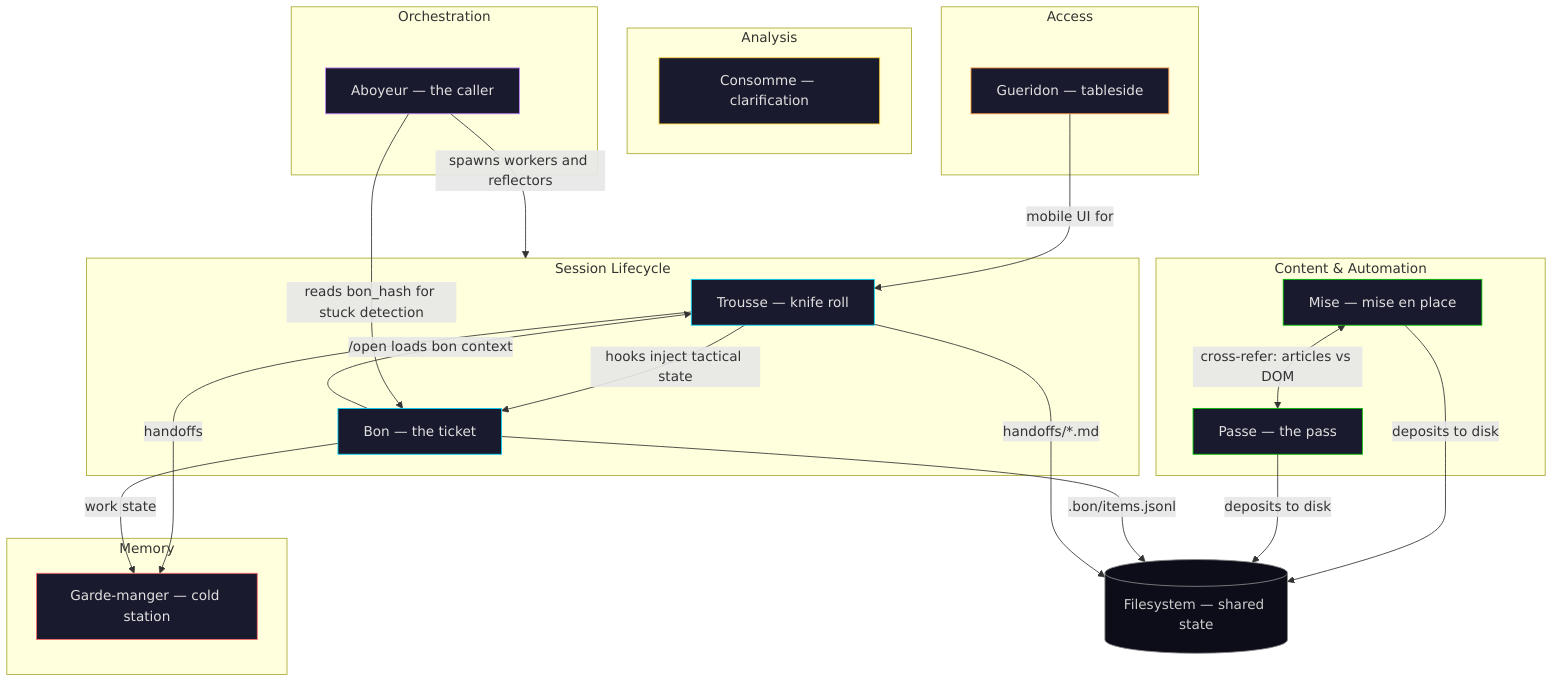
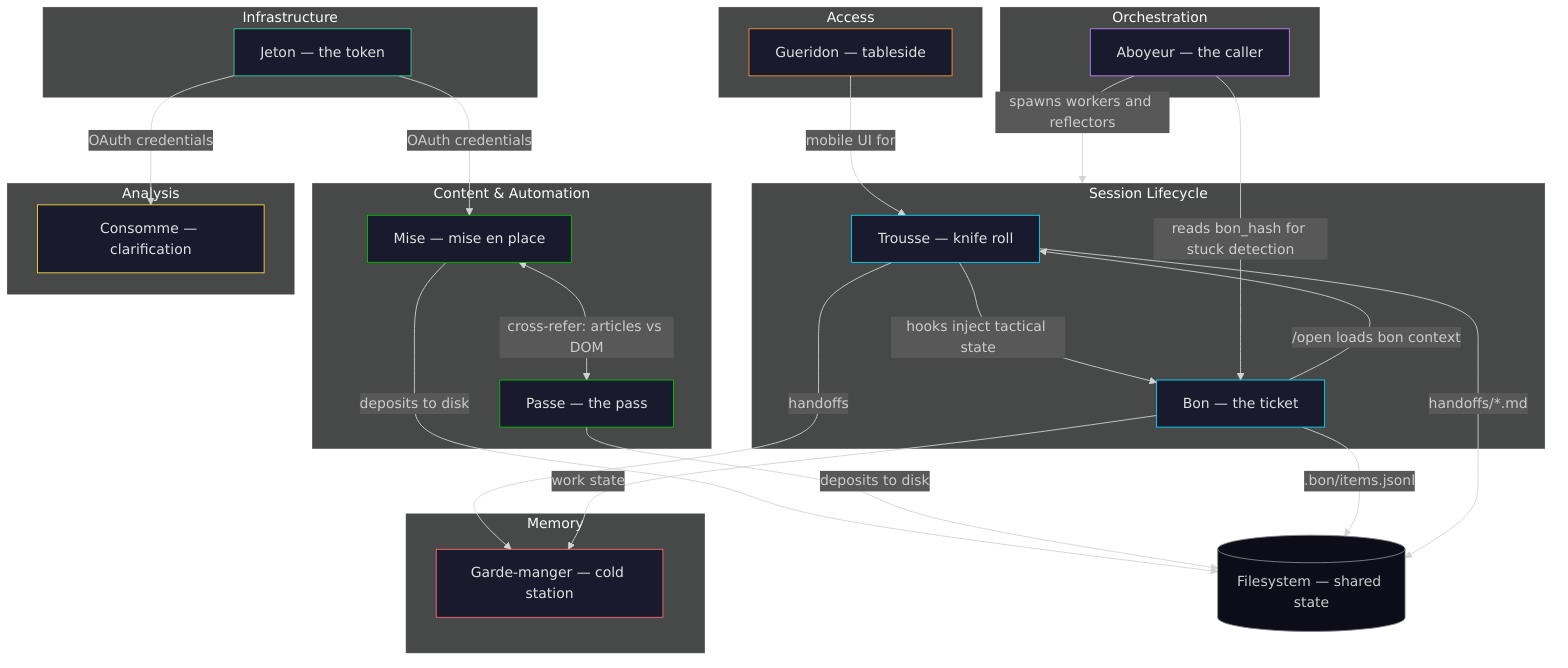
Add Jeton across all docs, create MAINTAINING.md checklist
Jeton added to brigade tables (index, for-agents, README already done),
prose summaries, getting-started guide, tool composition section,
prerequisites list, Mermaid diagram, and re-rendered PNG.

New docs/tools/jeton.md page covers auth modes, scope shortcuts,
explicit paths, Python API, and CLI reference.

MAINTAINING.md provides a 13-step checklist for future tool additions
plus a template for tool pages. References bds-pitivo (registry-driven
generation) as the longer-term solution.

diff --git a/docs/tools/jeton.md b/docs/tools/jeton.md
@@ -1,0 +1,98 @@
+---
+layout: default
+title: Jeton
+---
+
+# Jeton — The token
+
+Google OAuth token management for the Batterie de Savoir. Every Google-facing tool in the suite — mise for Workspace content, consommé for BigQuery — needs OAuth credentials. Jeton handles the full OAuth 2.0 flow so the tools themselves don't have to reinvent authentication. It acquires tokens, refreshes them when they expire, and manages scope negotiation across three auth modes.
+
+## When to use / When NOT to use
+
+**Use jeton when:**
+
+- You need Google API access from a Python tool in the suite
+- You're setting up mise or consommé for the first time and need credentials
+- A token has expired or scopes have changed and you need to re-authenticate
+- You want to check token status or available scopes
+
+**Do NOT use jeton when:**
+
+- You're accessing non-Google APIs — jeton is Google OAuth only
+- You need macOS Keychain secrets — use `security find-generic-password`
+- You're working with a tool that manages its own auth (e.g., `gh` for GitHub)
+
+## Key concepts
+
+### Three auth modes
+
+Jeton supports three ways to complete the OAuth flow, chosen based on the environment:
+
+| Mode | Flag | When to use |
+|------|------|-------------|
+| **Auto** | *(default)* | Local development — starts localhost:3000, opens browser, handles callback |
+| **Manual** | `--manual` | SSH, remote, headless — prints URL, you paste the redirect back |
+| **Non-interactive** | `--manual --code URL` | Scripting, CI, Claude Code — provide the auth code directly |
+
+### Scope shortcuts
+
+Instead of typing full Google OAuth URLs, jeton uses readable shortcuts: `drive.readonly`, `gmail.readonly`, `sheets`, `calendar`. The CLI and Python API both accept these shortcuts and resolve them to the full scope URIs.
+
+### Explicit paths over defaults
+
+Each project provides its own `credentials.json`, `token.json`, and scopes. There's no shared `~/.config/jeton/` directory. This keeps projects independent — one project's tokens can't leak into another's scope. The consuming tool (mise, consommé) passes paths explicitly when calling jeton's Python API.
+
+### Token refresh
+
+Tokens expire. Jeton handles refresh transparently — if a valid refresh token exists, `load_credentials()` returns fresh credentials without user interaction. The `jeton status` command shows whether a token is valid, expired-but-refreshable, or needs full re-auth.
+
+### Scope mismatch handling
+
+Google sometimes grants different scopes than requested (incremental auth). Jeton catches the `Scope has changed` error during token exchange and extracts credentials manually rather than failing. This is a known Google OAuth quirk that jeton absorbs so downstream tools don't have to.
+
+## How it relates to other tools
+
+Jeton is **infrastructure** — it sits beneath the Google-facing tools and provides them with credentials. It has no skill of its own (no behavioural document to load) because agents don't interact with it directly during normal work. It's plumbing.
+
+| Tool | Relationship to jeton |
+|------|----------------------|
+| **Mise** | Primary Python consumer — calls `authenticate()` and `load_credentials()` for Workspace access |
+| **Consommé** | Uses jeton credentials when connecting to BigQuery via Google APIs |
+| **Bon, Trousse, Passe, Garde-manger** | No dependency — these don't touch Google APIs |
+
+When you set up mise for the first time, jeton is the prerequisite. Run `jeton` to complete the OAuth flow, and mise picks up the resulting `token.json`.
+
+## CLI
+
+```
+jeton                    # Authenticate (auto mode)
+jeton --manual           # Authenticate (manual mode — prints URL)
+jeton status             # Show token validity and scopes
+jeton refresh            # Force token refresh
+jeton list-scopes        # Show available scope shortcuts
+```
+
+## Python API
+
+```python
+from jeton import authenticate, load_credentials, TokenStatus
+
+# Full OAuth flow (interactive)
+creds = authenticate(credentials_path, token_path, scopes)
+
+# Load existing token (refreshes if needed)
+creds = load_credentials(token_path, scopes)
+
+# Check token status without modifying it
+status = TokenStatus.check(token_path)
+```
+
+## Prerequisites
+
+- A Google Cloud project with OAuth 2.0 credentials (`credentials.json`)
+- The relevant Google APIs enabled in your GCP project
+- Python 3.11+ with uv
+
+## Repo
+
+Install, usage, and full reference: [github.com/spm1001/jeton](https://github.com/spm1001/jeton)

diff --git a/docs/getting-started.md b/docs/getting-started.md
@@ -33,9 +33,15 @@ This is the most common first pick, because statelessness is the first pain you 
 
 📦 [spm1001/garde-manger](https://github.com/spm1001/garde-manger)
 
+### "I need Google Workspace access (Mise, Consommé, or anything with Google APIs)"
+
+**[Jeton](tools/jeton)** handles Google OAuth for the suite. It acquires, refreshes, and manages tokens so the Google-facing tools don't have to reinvent auth. If you're adopting Mise or Consommé, you'll need Jeton first — it's the plumbing that makes their Google access work.
+
+📦 [spm1001/jeton](https://github.com/spm1001/jeton)
+
 ### "I need to pull in content from Google Workspace or the web"
 
-**[Mise en Space](tools/mise)** is an MCP server that fetches and preps content — Google Docs, Sheets, Slides, Gmail, web pages, PDFs, video, audio — and deposits clean markdown to disk. It works standalone, no dependency on other tools in the batterie. If you work with Google Workspace, this is probably your first pick regardless of anything else.
+**[Mise en Space](tools/mise)** is an MCP server that fetches and preps content — Google Docs, Sheets, Slides, Gmail, web pages, PDFs, video, audio — and deposits clean markdown to disk. For Google Workspace content it uses **jeton** for authentication. If you work with Google Workspace, mise + jeton is probably your first pick regardless of anything else.
 
 📦 [spm1001/mise-en-space](https://github.com/spm1001/mise-en-space)
 
@@ -69,6 +75,8 @@ The tools are independent but they're designed to work together. Here's what fee
 
 **Trousse + Bon** is the natural first pair. Trousse provides the session lifecycle (hooks, handoffs, skills); bon provides the work tracking. Together they mean each session knows what happened last time *and* what needs doing next. Most of the batterie assumes this pair is in place.
 
+**Jeton + Mise** — jeton provides OAuth credentials that mise needs for Google Workspace access. Without jeton, mise still works for web content but can't reach Drive, Gmail, or Sheets. If you're adding Google Workspace access, jeton is the prerequisite.
+
 **Mise + Passe** complement each other. Mise fetches clean content from structured sources (Workspace, web articles). Passe automates the browser for everything else (interactive pages, form submissions, screenshots). Their skills even cross-reference each other — mise says "for DOM-faithful extraction, use passe"; passe says "for clean article extraction, use mise."
 
 **Garde-manger + Trousse** — garde-manger gets better when trousse is producing structured handoffs. The handoffs become a high-quality source for indexing. Without trousse, garde-manger still works (it indexes raw transcripts), but the signal-to-noise ratio improves with structured session boundaries.
@@ -81,7 +89,7 @@ The tools are independent but they're designed to work together. Here's what fee
 
 **An AI coding agent.** The batterie is built for [Claude Code](https://docs.anthropic.com/en/docs/claude-code), but the filesystem-first design means most tools work with any agent that can read and write files.
 
-**Python and uv.** Several tools (bon, garde-manger, mise, passe) are Python-based and use [uv](https://docs.astral.sh/uv/) for installation. If you don't have uv, that's your actual first step. (Consommé is a skill — a behavioural document — not a Python package. It has nothing to install via uv.)
+**Python and uv.** Several tools (bon, garde-manger, jeton, mise, passe) are Python-based and use [uv](https://docs.astral.sh/uv/) for installation. If you don't have uv, that's your actual first step. (Consommé is a skill — a behavioural document — not a Python package. It has nothing to install via uv.)
 
 **No monorepo.** Each tool installs independently from its own repo. There is no unified installer, no shared config, no dependency graph to resolve. This is the point.
 

diff --git a/MAINTAINING.md b/MAINTAINING.md
@@ -1,0 +1,79 @@
+# Maintaining the Batterie Documentation
+
+When a tool is **added, renamed, or removed** from the suite, update all of the following. This checklist exists because a single tool touches 6+ locations across the docs.
+
+## Checklist: Adding a New Tool
+
+1. **README.md** — add row to the brigade table (keep sort order: stable first, then beta, then alpha)
+2. **docs/index.md** — add row to the brigade table (same order as README)
+3. **docs/index.md** — update the prose paragraph below the table that names all tools
+4. **docs/for-agents.md** — add to ALL of these tables:
+   - Vocabulary table
+   - Tool routing table
+   - Dependency direction table
+   - Key repos table
+5. **docs/getting-started.md** — add a "When to use this" section (placed by adoption order, not alphabetical)
+6. **docs/getting-started.md** — add a paragraph to "How the Tools Compose" section showing how the new tool relates to others
+7. **docs/getting-started.md** — if Python-based, add to the Prerequisites paragraph listing Python tools
+8. **docs/assets/brigade.mmd** — add node, subgraph, edges, and class definition
+9. **docs/assets/brigade.png** — re-render the Mermaid diagram (use `mmdc` or Mermaid Live Editor)
+10. **docs/tools/<name>.md** — create the tool page following the pattern of existing pages (see Template below)
+11. **docs/principles.md** — if the tool exemplifies a principle, add it to the relevant "In practice" section
+12. **CLAUDE.md (global)** — add to "The Kitchen" table if not already there
+13. **Skill frontmatter** — if the tool has a skill, ensure the description mentions the kitchen name
+
+## Checklist: Changing a Tool's Maturity
+
+1. **README.md** — update the Robustness column
+2. **docs/index.md** — update the Robustness column
+3. **CLAUDE.md (global)** — if the Kitchen table has maturity info, update there too
+
+## Checklist: Removing a Tool
+
+Reverse of adding — remove from all 13 locations above.
+
+## Tool Page Template
+
+Every tool page follows this structure:
+
+```markdown
+---
+layout: default
+title: <Name>
+---
+
+# <Name> — <Station tagline>
+
+<One paragraph: what problem this solves and why it exists.>
+
+## When to use / When NOT to use
+
+<Two bullet lists. "Do NOT use" should point to the right tool.>
+
+## Key concepts
+
+<3-5 subsections explaining the tool's core ideas.>
+
+## How it relates to other tools
+
+<Table or prose showing dependencies and complements.>
+
+## CLI / API
+
+<Command reference or code examples.>
+
+## Repo
+
+Install, usage, and full reference: [github.com/spm1001/<name>](https://github.com/spm1001/<name>)
+```
+
+## Future: Registry-Driven Generation
+
+The manual checklist above works but doesn't scale. A better pattern (filed as a bon outcome):
+
+1. A `brigade.toml` file as the single source of truth for tool metadata
+2. A PEP 723 render script that generates tables and page headers from the registry
+3. A lint script that detects drift between registry and docs
+4. Generated sections fenced with `<!-- GENERATED:START -->` / `<!-- GENERATED:END -->` markers
+
+This is the pattern used by mise (jdx/mise) and Homebrew's formulae site. It would reduce this checklist to: "edit brigade.toml, run the render script."

diff --git a/docs/index.md b/docs/index.md
@@ -23,16 +23,17 @@ If there's an aspiration, it is to acquire stars for the most pretentious dishes
 |------|---------|-------------|------------|
 | [**Bon**](tools/bon) | The ticket | GTD-flavoured work tracking — outcomes, actions, tactical steps | ⚡ Stable |
 | [**Trousse**](tools/trousse) | The knife roll | Skills, hooks, and session lifecycle for Claude Code | ⚡ Stable |
+| [**Garde-manger**](tools/garde-manger) | The cold station | Persistent, searchable memory across sessions | ⚡ Stable |
+| [**Jeton**](tools/jeton) | The token | Google OAuth token management for the suite | ⚡ Stable |
 | [**Mise en Space**](tools/mise) | Mise en place | Content fetching and prep from Google Workspace and the web (MCP) | 🔧 Beta |
 | [**Passe**](tools/passe) | The pass | Fast browser automation via Chrome DevTools Protocol | 🔧 Beta |
-| [**Garde-manger**](tools/garde-manger) | The cold station | Persistent, searchable memory across sessions | ⚡ Stable |
 | [**Consomme**](tools/consomme) | Clarification | BigQuery data analysis — messy data in, clear insights out | 🔧 Beta |
 | [**Aboyeur**](tools/aboyeur) | The caller | Multi-session orchestrator — alternates workers and reflectors | 🧪 Alpha |
 | [**Gueridon**](tools/gueridon) | Tableside trolley | Mobile web UI for Claude Code | 🔧 Beta |
 
 ![Brigade architecture](assets/brigade.png)
 
-Together they address knowledge work from different angles: bon tracks *what needs doing*, trousse gives each session *the right tools and memory of the last*, mise preps *content from the outside world*, passe *automates the browser*, garde-manger provides *searchable ancestral memory*, and aboyeur *coordinates multiple sessions* so no single context window has to hold everything.
+Together they address knowledge work from different angles: bon tracks *what needs doing*, trousse gives each session *the right tools and memory of the last*, garde-manger provides *searchable ancestral memory*, jeton handles *OAuth tokens* so the Google-facing tools don't have to, mise preps *content from the outside world*, passe *automates the browser*, consommé *clarifies raw data*, aboyeur *coordinates multiple sessions* so no single context window has to hold everything, and guéridon *untethers a session from the desk*.
 
 ## Design Principles
 

diff --git a/docs/for-agents.md b/docs/for-agents.md
@@ -16,6 +16,7 @@ This repo is the documentation site for the Batterie de Savoir — a suite of to
 | **Mise (en Space)** | Content fetching from Google Workspace and the web (MCP server) |
 | **Passe** | Fast browser automation via Chrome DevTools Protocol (CDP) |
 | **Garde-manger** | Persistent, searchable memory across sessions |
+| **Jeton** | Google OAuth token management — scopes, refresh, multi-mode auth |
 | **Consommé** | BigQuery data analysis — messy data in, clear insights out |
 | **Aboyeur** | Multi-session orchestrator — alternates workers and reflectors |
 | **Guéridon** | Mobile web UI for Claude Code |
@@ -39,6 +40,7 @@ This repo is the documentation site for the Batterie de Savoir — a suite of to
 | DOM-faithful extraction (tables, code blocks) | **passe** | mise |
 | Screenshots, browser interaction, form filling | **passe** | — |
 | Search past sessions | **garde-manger** | — |
+| Google OAuth tokens (acquire, refresh, status) | **jeton** | — |
 | BigQuery analysis | **consommé** | mise |
 | Multi-session orchestration | **aboyeur** | — |
 | Mobile access to Claude Code | **guéridon** | — |
@@ -50,6 +52,7 @@ What feeds what — arrows show data flow.
 | Source | → | Destination |
 |--------|---|-------------|
 | mise, passe | → | Files on disk (content deposit) |
+| jeton | → | mise, consommé (OAuth credentials for Google APIs) |
 | bon | → | trousse (hooks inject tactical state) |
 | trousse | → | bon (session open/close triggers draw-down/draw-up) |
 | garde-manger | → | Any session (search retrieves past context) |
@@ -77,6 +80,7 @@ Thinnest to thickest — reach for the thinnest layer that has what you need.
 | Mise en Space | [spm1001/mise-en-space](https://github.com/spm1001/mise-en-space) |
 | Passe | [spm1001/passe](https://github.com/spm1001/passe) |
 | Garde-manger | [spm1001/garde-manger](https://github.com/spm1001/garde-manger) |
+| Jeton | [spm1001/jeton](https://github.com/spm1001/jeton) |
 | Consommé | [spm1001/consomme](https://github.com/spm1001/consomme) |
 | Aboyeur | [spm1001/aboyeur](https://github.com/spm1001/aboyeur) |
 | Guéridon | [spm1001/gueridon](https://github.com/spm1001/gueridon) |
